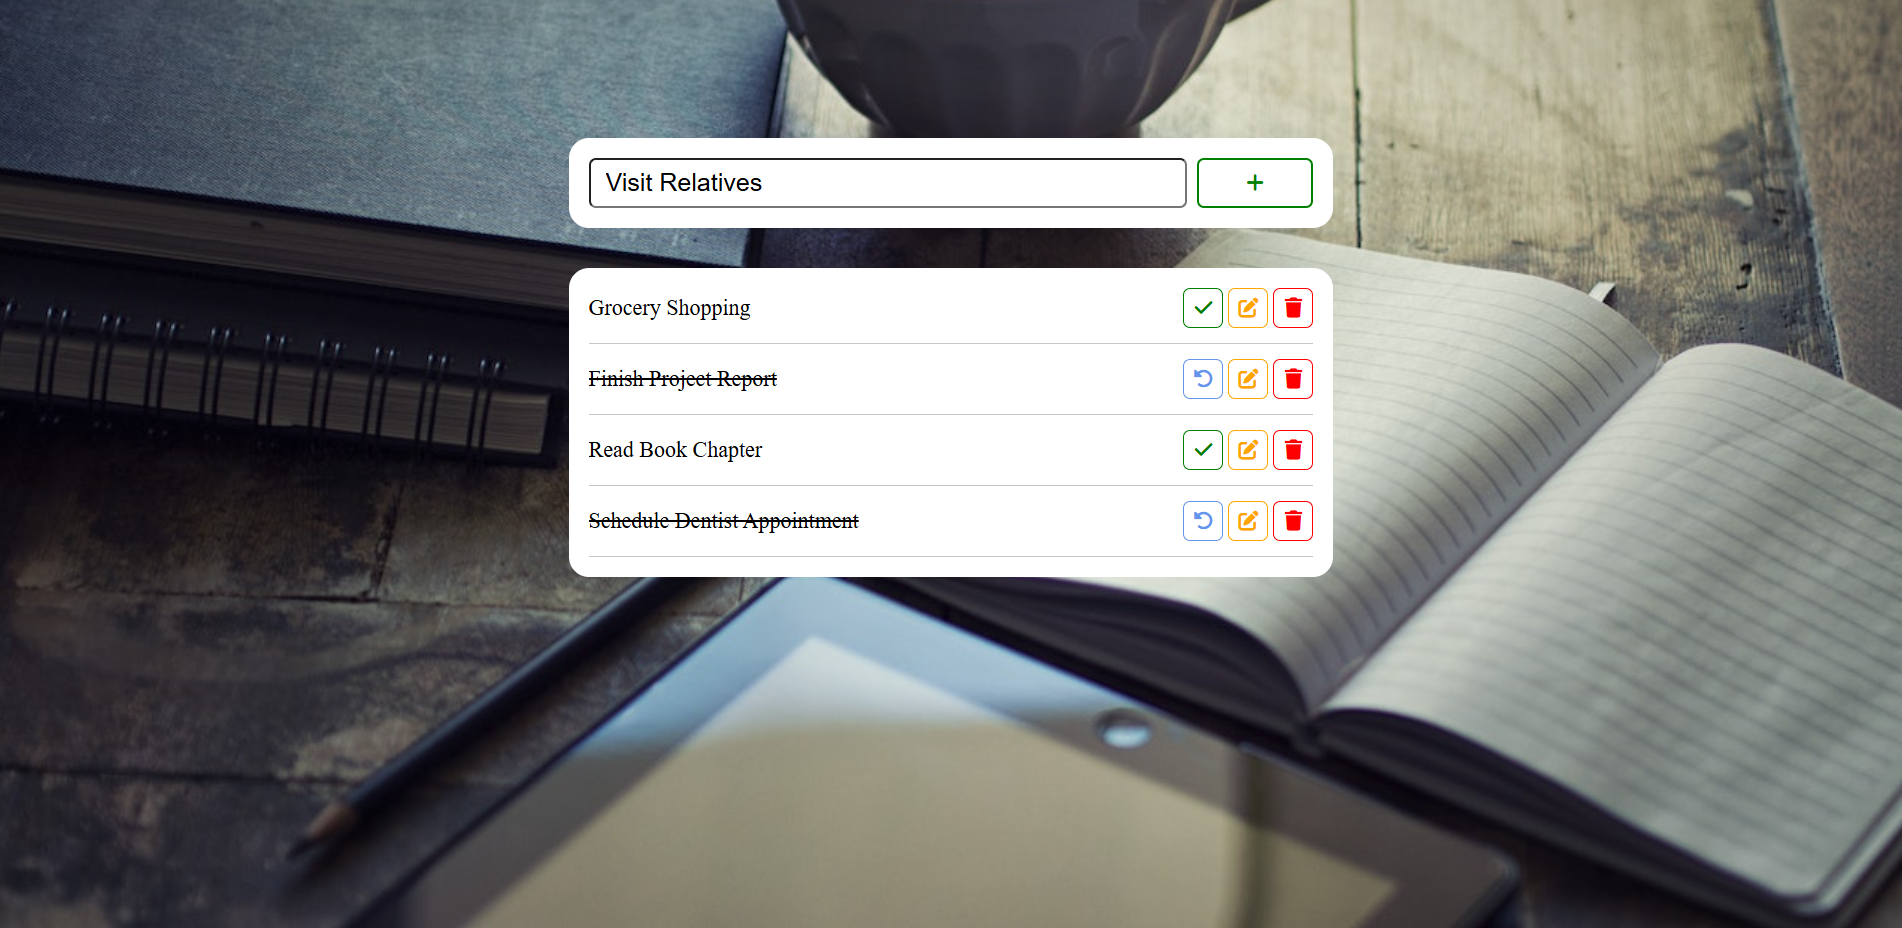
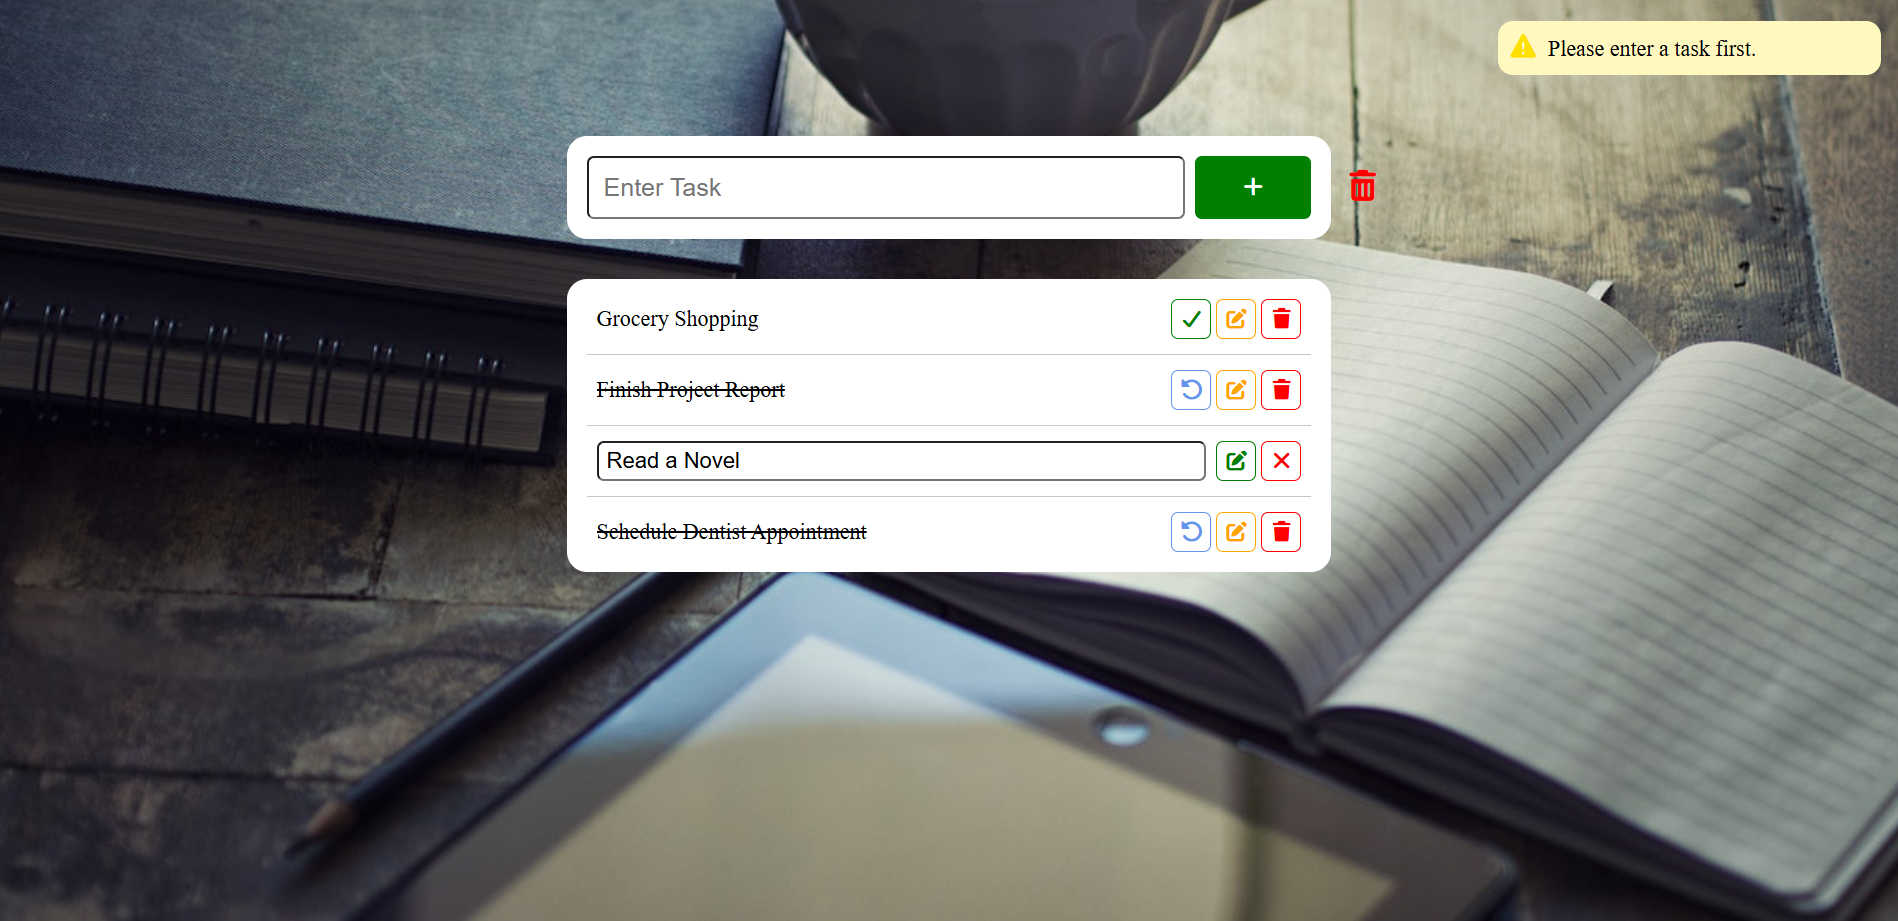
Update readme

diff --git a/README.md b/README.md
@@ -1,23 +1,52 @@
 # To Do List 📝
 
-A small JavaScript project that implements a to-do list where users can create, mark as completed, undo mark, and delete tasks using basic DOM manipulation.
+A small JavaScript project that implements a to-do list where users can create, mark as complete, undo mark, and delete tasks using basic DOM manipulation.
 
 ## Key Concepts Used 🧩
 
+### DOM Selection & Traversal
+
 - `document.querySelector()`
-- `addEventListener()`
-- `createElement()`
-- `remove() & add()`
-- `appendChild()`
-- `innerHTML & innerText`
+- `document.querySelectorAll()`
 - `parentElement`
+- `firstChild, children.item()`
+
+### Event Handling
+
+- `addEventListener()`
+- `e.key, e.keyCode`
 - `e.target`
+- `click()`
+
+### DOM Manipulation
+
+- `createElement()`
+- `appendChild()`
+- `innerHTML, innerText`
+- `className`
+- `classList.add() / classList.remove()`
+- `remove()`
 
 ## Programming Languages Used 🛠
 
 - HTML
 - CSS
 - JavaScript
+
+## Features 🌟
+
+- Add tasks by typing and pressing Enter, or by clicking the + button.
+- Mark tasks as completed and undo completion.
+- Update an existing task or cancel the update.
+- Delete tasks individually or clear all tasks.
+- Show a pop-up warning if the user tries to add an empty task.
+
+## Running the Project ▶
+
+1. Clone or download the repository.
+2. Open index.html in any modern browser.
+
+(No build tools or dependencies required).
 
 ## Screenshot 📸
 
